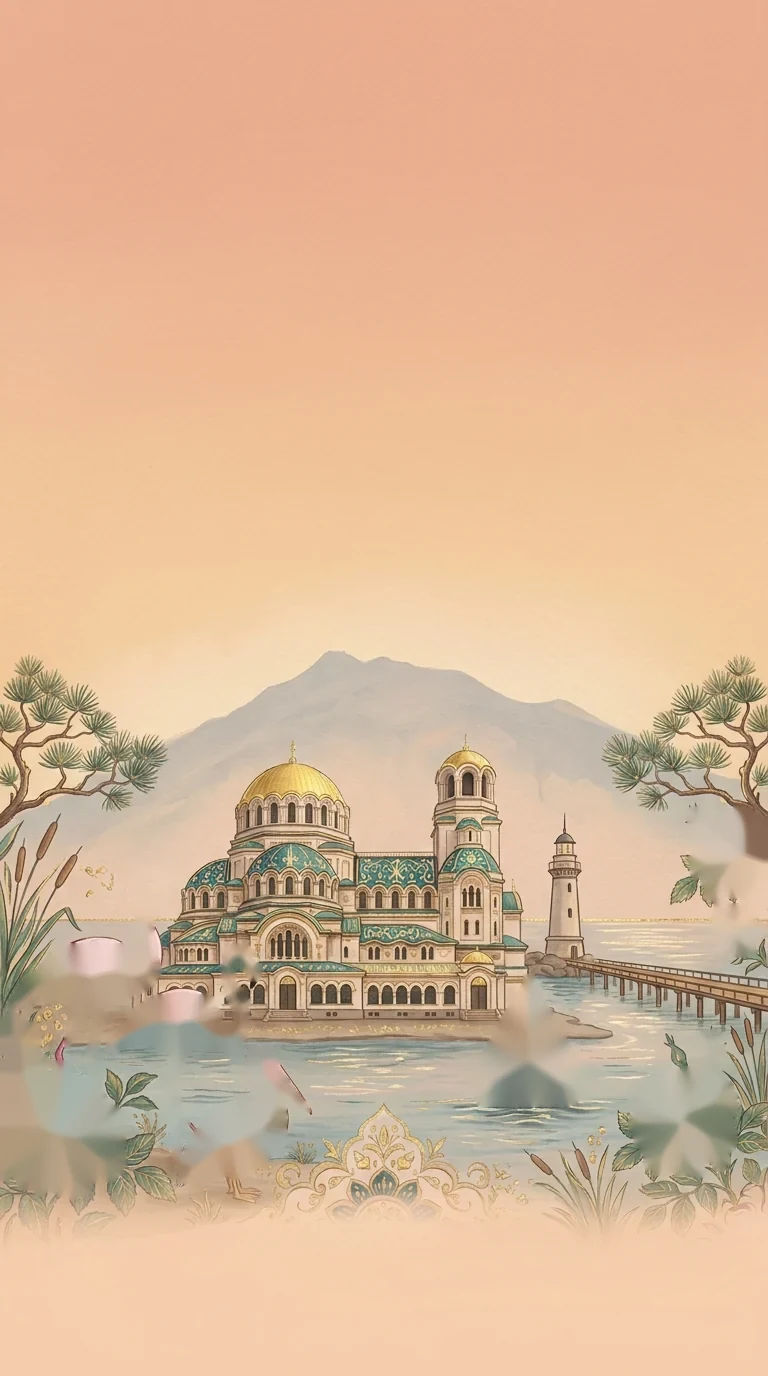
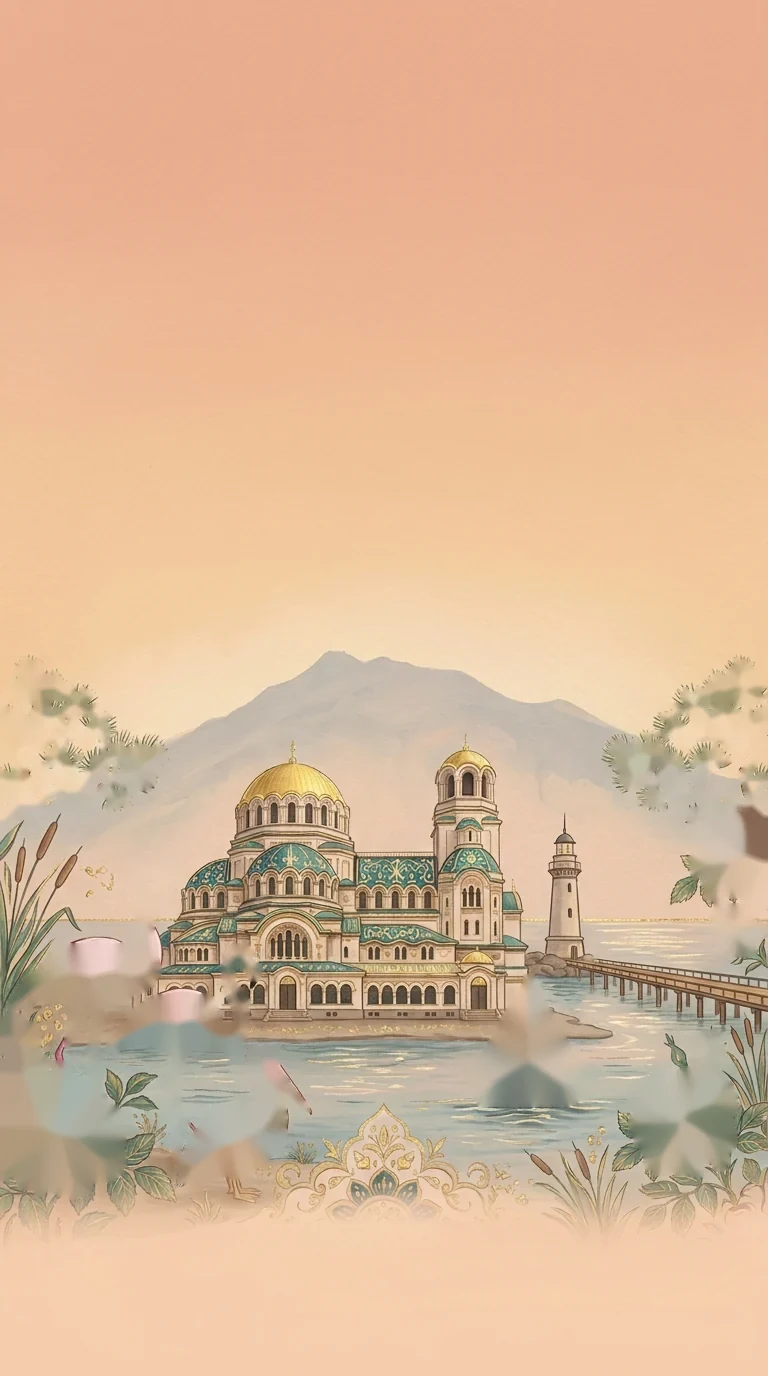
feat: pine trees rock gently in uneven gusts of wind

Changed region(s): [[0.0, 0.4688, 0.2188, 0.5938], [0.7812, 0.4688, 1.0, 0.5938]]

diff --git a/index.html b/index.html
@@ -18,11 +18,11 @@
   <link rel="preconnect" href="https://fonts.googleapis.com">
   <link rel="preconnect" href="https://fonts.gstatic.com" crossorigin>
   <link href="https://fonts.googleapis.com/css2?family=Ballet:opsz@16..72&family=Cormorant+Garamond:ital,wght@0,300;0,400;0,500;1,400;1,500;1,600&display=swap" rel="stylesheet">
-  <link rel="stylesheet" href="styles.css?v=202610182226">
+  <link rel="stylesheet" href="styles.css?v=202610182228">
   <link rel="preload" as="image" href="assets/paper.webp?v=3">
   <link rel="preload" as="image" href="assets/seal.webp?v=2">
   <link rel="preload" as="image" href="assets/seal-lines.webp?v=2">
-  <link rel="preload" as="image" href="assets/hero/plate.webp?v=2">
+  <link rel="preload" as="image" href="assets/hero/plate.webp?v=3">
   <link rel="preconnect" href="https://www.google.com">
 </head>
 <body>
@@ -88,6 +88,8 @@
               <img class="sail sail-r" src="assets/hero/sail-r.webp?v=1" alt="">
               <img class="boat-hull" src="assets/hero/boat-hull.webp?v=1" alt="">
             </div>
+            <img class="hl hl-tree-l" src="assets/hero/tree-l.webp?v=1" alt="">
+            <img class="hl hl-tree-r" src="assets/hero/tree-r.webp?v=1" alt="">
             <img class="hl hl-flamingo1" src="assets/hero/flamingo1.webp?v=1" alt="">
             <img class="hl hl-flamingo2" src="assets/hero/flamingo2.webp?v=1" alt="">
             <img class="hl hl-pelican" src="assets/hero/pelican.webp?v=1" alt="">
@@ -380,7 +382,7 @@
   </main>
 
 
-  <script src="config.js?v=202610182226"></script>
-  <script src="main.js?v=202610182226"></script>
+  <script src="config.js?v=202610182228"></script>
+  <script src="main.js?v=202610182228"></script>
 </body>
 </html>

diff --git a/styles.css b/styles.css
@@ -165,7 +165,7 @@ body {
   width: max(100cqw, 100cqh * 768 / 1376);
   aspect-ratio: 768 / 1376;
   transform: translateX(-50%);
-  background: url("assets/hero/plate.webp?v=2") center / 100% 100% no-repeat;
+  background: url("assets/hero/plate.webp?v=3") center / 100% 100% no-repeat;
   container-type: inline-size;
 }
 .hl {
@@ -459,6 +459,26 @@ body {
   78%       { opacity: 1; }
   92%       { opacity: .8; }
   100%      { opacity: 0; }
+}
+
+/* Pines (0,657 · 170×174) and (608,658 · 160×168): rock from where the trunk leaves the frame, in uneven gusts */
+.hl-tree-l { left: 0;       top: 47.747%; width: 22.135%; transform-origin: 0 99%;    animation: breeze-l 10s ease-in-out infinite; }
+.hl-tree-r { left: 79.167%; top: 47.820%; width: 20.833%; transform-origin: 100% 99%; animation: breeze-r 11.5s ease-in-out -4s infinite; }
+@keyframes breeze-l {
+  0%, 100% { rotate: 0deg; }
+  18% { rotate: .9deg; }
+  30% { rotate: .3deg; }
+  46% { rotate: 1.2deg; }
+  62% { rotate: .2deg; }
+  80% { rotate: .6deg; }
+}
+@keyframes breeze-r {
+  0%, 100% { rotate: 0deg; }
+  20% { rotate: -.8deg; }
+  33% { rotate: -.25deg; }
+  50% { rotate: -1.1deg; }
+  66% { rotate: -.15deg; }
+  82% { rotate: -.55deg; }
 }
 
 @keyframes sway { from { transform: rotate(var(--a, -1deg)); } to { transform: rotate(var(--b, 1deg)); } }
